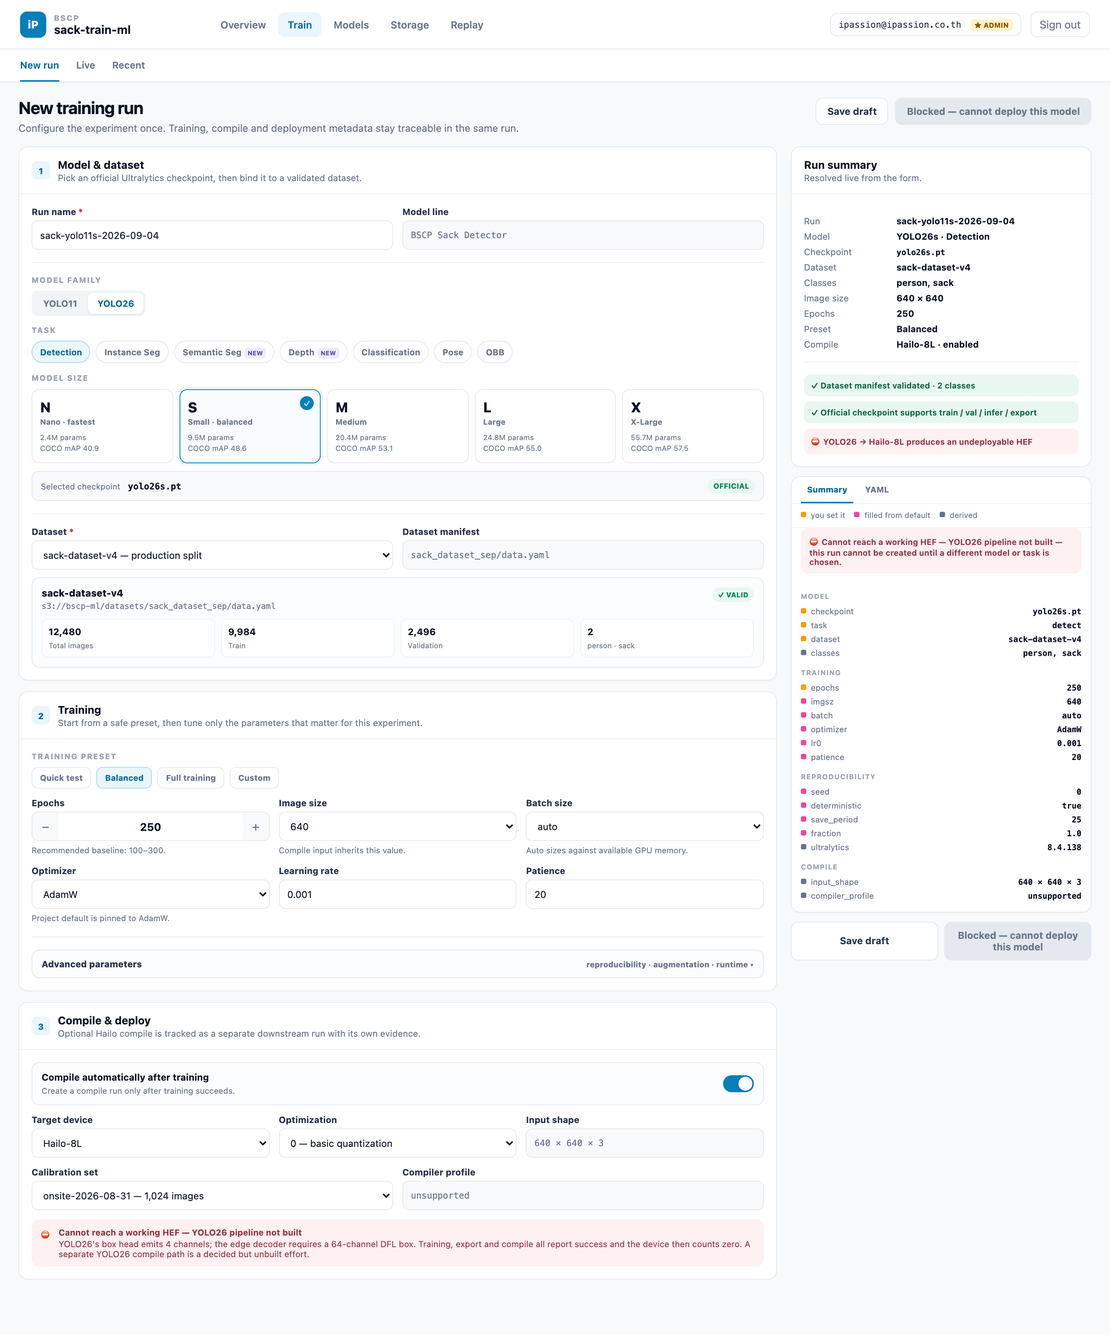
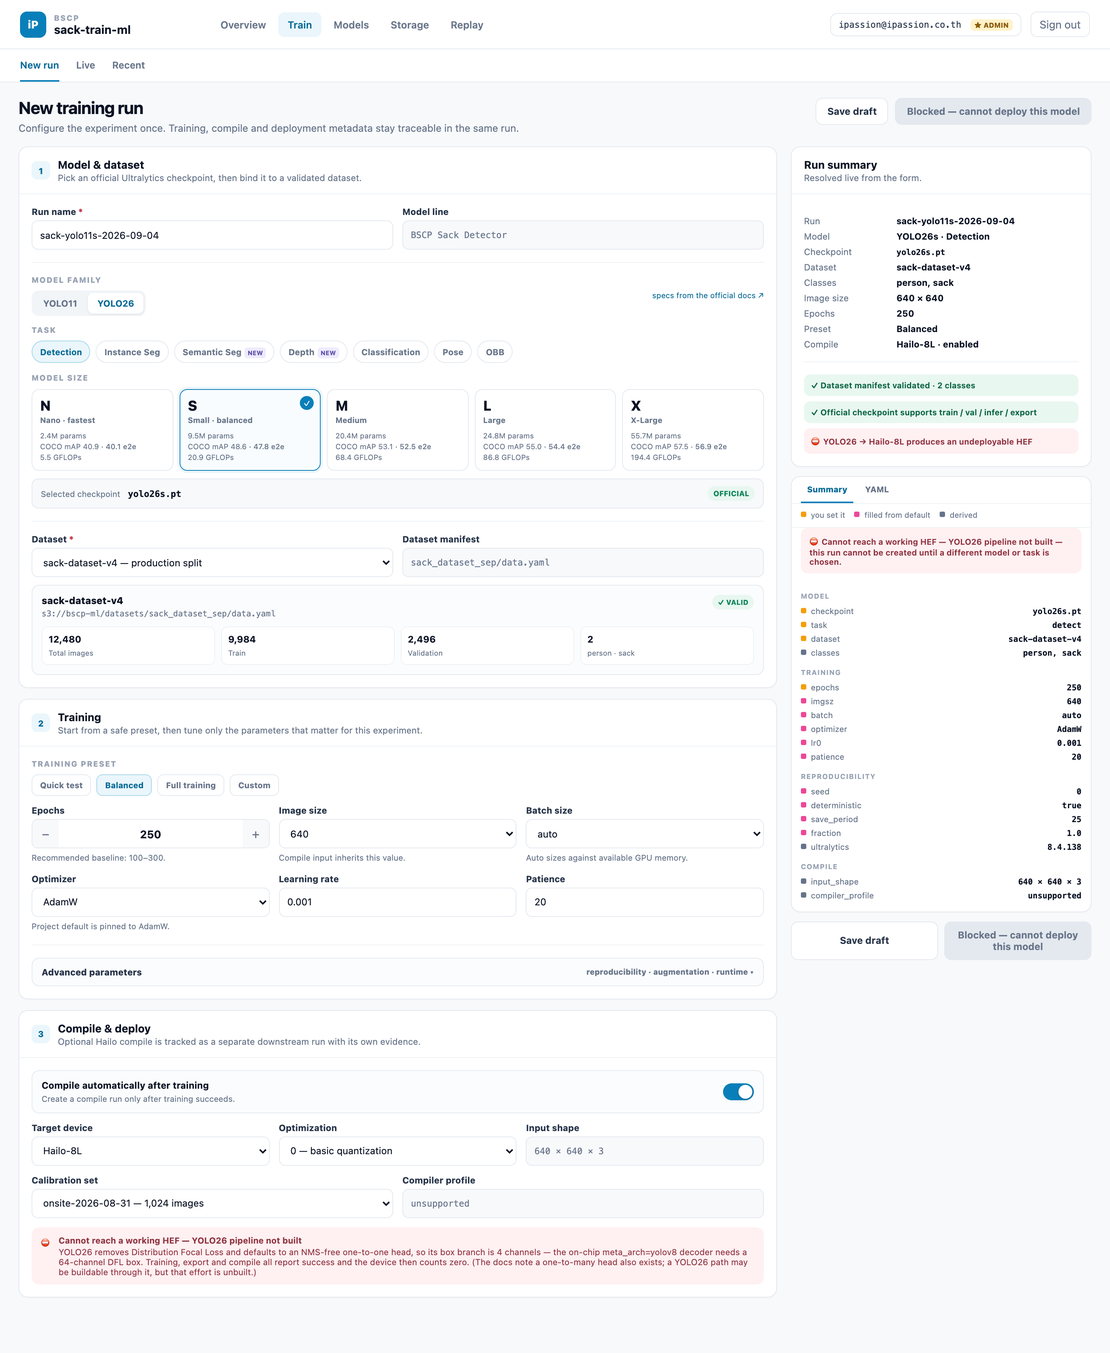
docs: complete the model catalogue from the official docs; accept v3
Verified both family pages directly. The task lists genuinely differ —
YOLO11 publishes five tasks, YOLO26 seven, adding semantic segmentation
and depth — and only detection has a published performance table on
either page, so the cards now say "no published table" rather than
inventing numbers. Detection figures carried verbatim with FLOPs, which
were missing, plus YOLO26's end-to-end NMS-free mAP as its own column
since that is the number its default head actually delivers. Each family
links to its source page so the specs stay traceable.

The YOLO26 refusal is now grounded in documented fact rather than
inference: the page states outright that YOLO26 removes Distribution
Focal Loss and defaults to an NMS-free one-to-one head, which is exactly
why the on-chip yolov8 decoder cannot read it.

Also captured a lead that changes the size of the deferred YOLO26 effort:
the docs describe a one-to-many head alongside the default one. If it
carries the classical DFL box, that path may be far cheaper than writing
a new host-side decoder — unverified against a real export.

Prototype ticket resolved on v3.

diff --git a/.scratch/train-param-contract/prototype/new-run.v3.html b/.scratch/train-param-contract/prototype/new-run.v3.html
@@ -65,7 +65,7 @@ details.advanced{border:1px solid var(--line);border-radius:10px;background:#fbf
 .compat{margin-top:12px;border-radius:10px;padding:10px 12px;font-size:11px;display:flex;gap:9px;align-items:flex-start}.compat.ok{background:var(--success-soft);color:#0b6446}.compat.warn{background:var(--warn-soft);color:#8a5b0a}.compat.bad{background:var(--danger-soft);color:#8f3440}.compat b{display:block;margin-bottom:2px}
 
 /* Aside */
-.summary-list{display:grid;grid-template-columns:110px 1fr;gap:7px 10px;font-size:11.5px}.summary-list dt{color:var(--muted)}.summary-list dd{margin:0;color:var(--ink);font-weight:700;min-width:0;overflow-wrap:anywhere}.summary-list code{font-family:var(--mono);font-size:10.5px}.status-stack{display:flex;flex-direction:column;gap:7px}.status{padding:8px 9px;border-radius:8px;font-size:10.5px;font-weight:650}.status.ok{background:var(--success-soft);color:#0b6446}.status.warn{background:var(--warn-soft);color:#855508}.status.neutral{background:var(--soft);color:var(--muted);border:1px solid var(--line-2)}.status.bad{background:var(--danger-soft);color:#8f3440}.btn[disabled]{background:var(--line);color:var(--muted);cursor:not-allowed;border-color:var(--line)}.btn.secondary[disabled]{background:#fff;color:var(--muted-2,#9aa4b2)}.prov{display:inline-block;width:7px;height:7px;border-radius:2px;margin-right:6px;vertical-align:1px;flex:none}.prov.set{background:#f59e0b}.prov.def{background:#ec4899}.prov.der{background:#64748b}.prov-legend{display:flex;gap:12px;flex-wrap:wrap;padding:8px 12px 10px;font-size:10px;color:var(--muted);border-bottom:1px solid var(--line-2)}.prov-legend span{display:flex;align-items:center}.blockbar{margin:0 12px 12px;border-radius:9px;padding:9px 11px;font-size:10.5px;font-weight:650;background:var(--danger-soft);color:#8f3440;display:none}
+.summary-list{display:grid;grid-template-columns:110px 1fr;gap:7px 10px;font-size:11.5px}.summary-list dt{color:var(--muted)}.summary-list dd{margin:0;color:var(--ink);font-weight:700;min-width:0;overflow-wrap:anywhere}.summary-list code{font-family:var(--mono);font-size:10.5px}.status-stack{display:flex;flex-direction:column;gap:7px}.status{padding:8px 9px;border-radius:8px;font-size:10.5px;font-weight:650}.status.ok{background:var(--success-soft);color:#0b6446}.status.warn{background:var(--warn-soft);color:#855508}.status.neutral{background:var(--soft);color:var(--muted);border:1px solid var(--line-2)}.dim{color:var(--muted);font-weight:500}.docs-link{float:right;font-size:10px;color:var(--primary-700);text-decoration:none}.status.bad{background:var(--danger-soft);color:#8f3440}.btn[disabled]{background:var(--line);color:var(--muted);cursor:not-allowed;border-color:var(--line)}.btn.secondary[disabled]{background:#fff;color:var(--muted-2,#9aa4b2)}.prov{display:inline-block;width:7px;height:7px;border-radius:2px;margin-right:6px;vertical-align:1px;flex:none}.prov.set{background:#f59e0b}.prov.def{background:#ec4899}.prov.der{background:#64748b}.prov-legend{display:flex;gap:12px;flex-wrap:wrap;padding:8px 12px 10px;font-size:10px;color:var(--muted);border-bottom:1px solid var(--line-2)}.prov-legend span{display:flex;align-items:center}.blockbar{margin:0 12px 12px;border-radius:9px;padding:9px 11px;font-size:10.5px;font-weight:650;background:var(--danger-soft);color:#8f3440;display:none}
 .tabbar{display:flex;border-bottom:1px solid var(--line-2);padding:0 12px}.tabbar button{border:0;background:none;padding:10px 8px;margin-right:7px;color:var(--muted);font-size:10.5px;font-weight:800;border-bottom:2px solid transparent}.tabbar button.active{color:var(--primary-700);border-bottom-color:var(--primary)}
 .config-summary{padding:12px}.config-group{margin-bottom:11px}.config-group:last-child{margin-bottom:0}.config-group h4{margin:0 0 5px;color:var(--muted-2);font-size:9px;letter-spacing:.08em;text-transform:uppercase}.config-kv{display:flex;justify-content:space-between;gap:12px;padding:3px 0;font-size:10.5px}.config-kv span:first-child{color:var(--muted)}.config-kv span:last-child{color:var(--ink);font-family:var(--mono);font-weight:700;text-align:right}
 pre{margin:0;padding:12px;background:var(--dark);color:#d8e2ee;font-family:var(--mono);font-size:10px;line-height:1.55;white-space:pre-wrap;overflow:auto;max-height:420px}
@@ -101,7 +101,7 @@ pre{margin:0;padding:12px;background:var(--dark);color:#d8e2ee;font-family:var(-
           </div>
           <div class="divider"></div>
           <div class="section-label">Model family</div>
-          <div class="segment" id="familySeg"><button class="active" data-family="11">YOLO11</button><button data-family="26">YOLO26</button></div>
+          <a class="docs-link" id="docsLink" target="_blank" rel="noopener">specs from the official docs ↗</a><div class="segment" id="familySeg"><button class="active" data-family="11">YOLO11</button><button data-family="26">YOLO26</button></div>
           <div style="height:12px"></div>
           <div class="section-label">Task</div>
           <div class="task-row" id="taskRow"></div>
@@ -212,33 +212,32 @@ pre{margin:0;padding:12px;background:var(--dark);color:#d8e2ee;font-family:var(-
 </main>
 
 <script>
+const DOCS={'11':'https://docs.ultralytics.com/models/yolo11','26':'https://docs.ultralytics.com/models/yolo26'};
 const families = {
   '11': {
     label:'YOLO11',
-    tasks:[
-      ['detect','Detection',''],['segment','Instance Seg',''],['classify','Classification',''],['pose','Pose',''],['obb','OBB','']
-    ],
+    // Tasks per the official page: detect, segment, classify, pose, obb. No semantic seg, no depth.
+    tasks:[['detect','Detection',''],['segment','Instance Seg',''],['classify','Classification',''],['pose','Pose',''],['obb','OBB','']],
     metrics:{
-      detect:{n:['2.6M','39.5'],s:['9.4M','47.0'],m:['20.1M','51.5'],l:['25.3M','53.4'],x:['56.9M','54.7']},
-      segment:{n:['—','—'],s:['—','—'],m:['—','—'],l:['—','—'],x:['—','—']},
-      classify:{n:['—','—'],s:['—','—'],m:['—','—'],l:['—','—'],x:['—','—']},
-      pose:{n:['—','—'],s:['—','—'],m:['—','—'],l:['—','—'],x:['—','—']},
-      obb:{n:['—','—'],s:['—','—'],m:['—','—'],l:['—','—'],x:['—','—']}
+      detect:{n:{p:'2.6M',map:'39.5',f:'6.5'},s:{p:'9.4M',map:'47.0',f:'21.6'},m:{p:'20.1M',map:'51.5',f:'68.1'},l:{p:'25.3M',map:'53.4',f:'87.2'},x:{p:'56.9M',map:'54.7',f:'195.3'}},
+      segment:{n:{p:'—',map:'—',f:'—'},s:{p:'—',map:'—',f:'—'},m:{p:'—',map:'—',f:'—'},l:{p:'—',map:'—',f:'—'},x:{p:'—',map:'—',f:'—'}},
+      classify:{n:{p:'—',map:'—',f:'—'},s:{p:'—',map:'—',f:'—'},m:{p:'—',map:'—',f:'—'},l:{p:'—',map:'—',f:'—'},x:{p:'—',map:'—',f:'—'}},
+      pose:{n:{p:'—',map:'—',f:'—'},s:{p:'—',map:'—',f:'—'},m:{p:'—',map:'—',f:'—'},l:{p:'—',map:'—',f:'—'},x:{p:'—',map:'—',f:'—'}},
+      obb:{n:{p:'—',map:'—',f:'—'},s:{p:'—',map:'—',f:'—'},m:{p:'—',map:'—',f:'—'},l:{p:'—',map:'—',f:'—'},x:{p:'—',map:'—',f:'—'}}
     }
   },
   '26': {
     label:'YOLO26',
-    tasks:[
-      ['detect','Detection',''],['segment','Instance Seg',''],['semantic','Semantic Seg','new'],['depth','Depth','new'],['classify','Classification',''],['pose','Pose',''],['obb','OBB','']
-    ],
+    // Tasks per the official page: seven, adding semantic segmentation and depth estimation.
+    tasks:[['detect','Detection',''],['segment','Instance Seg',''],['semantic','Semantic Seg','new'],['depth','Depth','new'],['classify','Classification',''],['pose','Pose',''],['obb','OBB','']],
     metrics:{
-      detect:{n:['2.4M','40.9'],s:['9.5M','48.6'],m:['20.4M','53.1'],l:['24.8M','55.0'],x:['55.7M','57.5']},
-      segment:{n:['—','—'],s:['—','—'],m:['—','—'],l:['—','—'],x:['—','—']},
-      semantic:{n:['—','—'],s:['—','—'],m:['—','—'],l:['—','—'],x:['—','—']},
-      depth:{n:['—','—'],s:['—','—'],m:['—','—'],l:['—','—'],x:['—','—']},
-      classify:{n:['—','—'],s:['—','—'],m:['—','—'],l:['—','—'],x:['—','—']},
-      pose:{n:['—','—'],s:['—','—'],m:['—','—'],l:['—','—'],x:['—','—']},
-      obb:{n:['—','—'],s:['—','—'],m:['—','—'],l:['—','—'],x:['—','—']}
+      detect:{n:{p:'2.4M',map:'40.9',f:'5.5',e2e:'40.1'},s:{p:'9.5M',map:'48.6',f:'20.9',e2e:'47.8'},m:{p:'20.4M',map:'53.1',f:'68.4',e2e:'52.5'},l:{p:'24.8M',map:'55.0',f:'86.8',e2e:'54.4'},x:{p:'55.7M',map:'57.5',f:'194.4',e2e:'56.9'}},
+      segment:{n:{p:'—',map:'—',f:'—'},s:{p:'—',map:'—',f:'—'},m:{p:'—',map:'—',f:'—'},l:{p:'—',map:'—',f:'—'},x:{p:'—',map:'—',f:'—'}},
+      semantic:{n:{p:'—',map:'—',f:'—'},s:{p:'—',map:'—',f:'—'},m:{p:'—',map:'—',f:'—'},l:{p:'—',map:'—',f:'—'},x:{p:'—',map:'—',f:'—'}},
+      depth:{n:{p:'—',map:'—',f:'—'},s:{p:'—',map:'—',f:'—'},m:{p:'—',map:'—',f:'—'},l:{p:'—',map:'—',f:'—'},x:{p:'—',map:'—',f:'—'}},
+      classify:{n:{p:'—',map:'—',f:'—'},s:{p:'—',map:'—',f:'—'},m:{p:'—',map:'—',f:'—'},l:{p:'—',map:'—',f:'—'},x:{p:'—',map:'—',f:'—'}},
+      pose:{n:{p:'—',map:'—',f:'—'},s:{p:'—',map:'—',f:'—'},m:{p:'—',map:'—',f:'—'},l:{p:'—',map:'—',f:'—'},x:{p:'—',map:'—',f:'—'}},
+      obb:{n:{p:'—',map:'—',f:'—'},s:{p:'—',map:'—',f:'—'},m:{p:'—',map:'—',f:'—'},l:{p:'—',map:'—',f:'—'},x:{p:'—',map:'—',f:'—'}}
     }
   }
 };
@@ -256,13 +255,22 @@ function renderTasks(){
 }
 function renderModels(){
   const grid=document.getElementById('modelGrid'); grid.innerHTML='';
-  ['n','s','m','l','x'].forEach(size=>{ const m=families[state.family].metrics[state.task]?.[size] || ['—','—']; const b=document.createElement('button'); b.className='model-card'+(state.size===size?' active':''); b.innerHTML=`<span class="check">✓</span><div class="size">${size}</div><div class="name">${sizeNames[size]}</div><div class="meta">${m[0]} params<br>${m[1]==='—'?'official scale':'COCO mAP '+m[1]}</div>`; b.onclick=()=>{state.size=size; renderAll();}; grid.appendChild(b); });
+  ['n','s','m','l','x'].forEach(size=>{
+    const m=families[state.family].metrics[state.task]?.[size] || {p:'—',map:'—',f:'—'};
+    const b=document.createElement('button');
+    b.className='model-card'+(state.size===size?' active':'');
+    const perf = m.map==='—'
+      ? '<span class="dim">no published table</span>'
+      : `COCO mAP ${m.map}${m.e2e?` <span class="dim">· ${m.e2e} e2e</span>`:''}<br>${m.f} GFLOPs`;
+    b.innerHTML=`<span class="check">✓</span><div class="size">${size}</div><div class="name">${sizeNames[size]}</div><div class="meta">${m.p} params<br>${perf}</div>`;
+    b.onclick=()=>{state.size=size; renderAll();};
+    grid.appendChild(b); });
 }
 function projectCompatibility(){
   // level: ok | warn | bad.  "bad" means KNOWN BROKEN TODAY — refuse, do not caution.
   if(state.family==='26') return {level:'bad',blocked:true,
     title:'Cannot reach a working HEF — YOLO26 pipeline not built',
-    text:"YOLO26's box head emits 4 channels; the edge decoder requires a 64-channel DFL box. Training, export and compile all report success and the device then counts zero. A separate YOLO26 compile path is a decided but unbuilt effort.",
+    text:"YOLO26 removes Distribution Focal Loss and defaults to an NMS-free one-to-one head, so its box branch is 4 channels — the on-chip meta_arch=yolov8 decoder needs a 64-channel DFL box. Training, export and compile all report success and the device then counts zero. (The docs note a one-to-many head also exists; a YOLO26 path may be buildable through it, but that effort is unbuilt.)",
     profile:'unsupported', status:'⛔ YOLO26 → Hailo-8L produces an undeployable HEF'};
   if(state.task==='pose'||state.task==='obb') return {level:'bad',blocked:true,
     title:'Compiles with the keypoint branch silently removed',
@@ -388,6 +396,7 @@ function updateSummary(){
 function renderAll(){
   document.querySelectorAll('#familySeg button').forEach(b=>b.classList.toggle('active',b.dataset.family===state.family));
   const validTasks=families[state.family].tasks.map(x=>x[0]); if(!validTasks.includes(state.task)) state.task='detect';
+  document.getElementById('docsLink').href=DOCS[state.family];
   renderTasks(); renderModels(); updateSummary(); updateCompat(); renderConfig();
 }
 function applyPreset(p){

diff --git a/.scratch/train-param-contract/map.md b/.scratch/train-param-contract/map.md
@@ -42,6 +42,7 @@ Both share one root: **the parameter surface is not a contract**. Defaults live 
 
 - [What can ultralytics training actually tune, and can we validate it programmatically?](./issues/01-ultralytics-train-args.md) — validating custom params is cheap (`DEFAULT_CFG_DICT` + `check_dict_alignment` + `check_cfg`, all verified in the venv), and unknown keys already fail fast; the real gap is that 29 of 115 keys — `optimizer` among them — get **zero** value checking, so our own enum table is unavoidable. The Muon bug existed in exactly one upstream release: nothing pins the toolchain.
 - [What can the Hailo compile tune, and why did INT8 collapse?](./issues/02-hailo-compile-params.md) — `optimization_level=2` is quantization-aware **fine-tuning** (4 epochs, 1024 images, wants a GPU), and a diverging QFT is the leading explanation, matching a same-shaped incident this team hit on 2026-07-21. Two side-findings: our generated ALLS omits the cls `sigmoid` that Hailo's own recipe carries, and the reported "below 0.2" scores cannot have come from the HEF output, whose on-chip floor is 0.2.
+- [Prototype the New-run form under the new contract](./issues/09-prototype-new-run-form.md) — **v3 accepted**: an externally-reviewed form (family/task/size decomposition, dataset card with real counts, presets, run name, Summary/YAML tabs) with two contract pieces ported back — a level that *blocks* known-broken paths instead of cautioning, and provenance on every value, so the config reads `optimizer: AdamW  # default — nobody typed this`. Catalogue verified against the official docs.
 - [Which parameters are first-class fields, and what does the escape hatch allow?](./issues/06-fields-vs-escape-hatch.md) — every parameter lands in one of **four** categories: field, advanced escape hatch, **derived (shown, never editable)**, or refused at submit. `imgsz` stays editable and the compile *inherits* it. Both forms' fields are fixed, each with a default and help text; `deterministic` and `save_period` are added; the catalogue lists every trainable checkpoint with its capability marked, which pulls the head-index fix into scope so those labels are true.
 - [Separating compile from train: what happens to `compile_run.ipynb`?](./issues/08-compile-notebook-and-recompile-flow.md) — **a compile is a run of its own kind**, carrying `source_run_id`; both kinds share **one launcher notebook** that dispatches on kind, which dissolves the stale `compile_run.ipynb` copy; configuration comes from the registry, with an override path that is allowed but cannot publish artifacts; and **calibration sets become named R2 artifacts referenced by key**, fixing the unreproducible disk path in `dc3dbb2`.
 - [Every trainable model, and which ones can reach a Hailo-8L HEF](./issues/03-model-catalogue.md) — 46 checkpoints train, **5 compile correctly**; the hardcoded `/model.23/` head prefix (the index is 22 on YOLOv8, 42 on YOLOv9e, 21 on YOLO12) is the single cause, and the fix is small. Worse: the `yolo26*` options already in the form produce HEFs that report success and count zero on the device, and pose compiles with its keypoint branch amputated.
@@ -59,6 +60,6 @@ Both share one root: **the parameter surface is not a contract**. Defaults live 
 - **The Lab tab** (`webui/lab_core.py`, `apps/api/lab_server.py`) — a separate subsystem for replaying video through the counting pipeline, not part of the train path.
 - **The Overview / Models / Storage tabs** — not part of launching a run.
 - **Designing the INT8-vs-FP32 quality gate** — this spec requires only that a measurement exists and travels with the HEF. How it is measured and what threshold passes is its own effort.
-- **Building the YOLO26 compile pipeline.** The owner has decided YOLO26 keeps its place and gets its own path rather than being dropped ([12](./issues/12-interim-remove-undeployable-options.md)). Its 4-channel box head cannot use the on-chip `meta_arch=yolov8` NMS, so it needs raw output plus a matching host-side decoder — and that decoder lives in `sack-detector-edge`, which this repo explicitly does not own (`AGENTS.md`). It is therefore its own effort, requiring a cross-repo contract, not a ticket here. What *does* stay on this map is how the parameter contract expresses more than one compile path ([06](./issues/06-fields-vs-escape-hatch.md)).
+- **Building the YOLO26 compile pipeline.** The owner has decided YOLO26 keeps its place and gets its own path rather than being dropped ([12](./issues/12-interim-remove-undeployable-options.md)). Its 4-channel box head cannot use the on-chip `meta_arch=yolov8` NMS — the official docs confirm YOLO26 *removes* Distribution Focal Loss and defaults to an NMS-free one-to-one head — so it needs raw output plus a matching host-side decoder, and that decoder lives in `sack-detector-edge`, which this repo explicitly does not own (`AGENTS.md`). It is therefore its own effort, requiring a cross-repo contract, not a ticket here. **One lead worth checking first:** the same docs state a *one-to-many* head (traditional, with NMS) also exists, which may carry the classical DFL box and make the path far cheaper than a new decoder — unverified against a real export. What *does* stay on this map is how the parameter contract expresses more than one compile path ([06](./issues/06-fields-vs-escape-hatch.md)).
 - **Making "experiment" a first-class object.** Today there is no way to say "these three runs are one ablation differing only in `opt_level`" — the registry holds `runs` and nothing groups them (`model_lines, runs, run_metrics, versions, channels, channel_deployments, channel_history`), so the parent `CLAUDE.md` rule of one-changed-lever-per-run cannot actually be *practised* in the system; the pairing lives in someone's head. This is the widest gap between "a webapp that trains" and a Lab, and it belongs to the horizon — the current focus is train + compile.
 - **Implementing the spec** — this map ends at decisions.

diff --git a/.scratch/train-param-contract/issues/03-model-catalogue.md b/.scratch/train-param-contract/issues/03-model-catalogue.md
@@ -35,5 +35,18 @@ Findings land in `../research/model-catalogue.md` (519 lines, incl. the full per
 
 **The dropdown must be generated against the installed ultralytics, not the docs.** `yolov9c-seg.pt`, `yolov8x-pose-p6.pt` and `yolo26*-depth.pt` appear in documentation but are missing from 8.4.56's `GITHUB_ASSETS_NAMES` — they cannot be downloaded at all. This ties the catalogue to [10](./10-toolchain-pinning.md).
 
+### Catalogue verified against the official pages (2026-09-04)
+
+Checked directly against [docs.ultralytics.com/models/yolo11](https://docs.ultralytics.com/models/yolo11) and [/yolo26](https://docs.ultralytics.com/models/yolo26), and folded into the prototype:
+
+- **Task lists differ between the families, and the earlier numbers were right.** YOLO11 publishes **five** tasks (detect, instance seg, classify, pose, OBB). YOLO26 publishes **seven**, adding **semantic segmentation** and **depth estimation**. Checkpoint suffixes: `-seg`, `-sem`, `-depth`, `-cls`, `-pose`, `-obb`.
+- **Only detection has a published performance table** on either page; every other task shows no numbers, so the catalogue says "no published table" rather than inventing one.
+- Detection figures now carried in full, verbatim, including **FLOPs** — previously missing — and YOLO26's second accuracy column: its **end-to-end (NMS-free) mAP**, which is the number that applies to its default head. YOLO11: 39.5 / 47.0 / 51.5 / 53.4 / 54.7 at 6.5–195.3 GFLOPs. YOLO26: 40.9 / 48.6 / 53.1 / 55.0 / 57.5 with e2e 40.1 / 47.8 / 52.5 / 54.4 / 56.9, at 5.5–194.4 GFLOPs.
+- P2/P6 exist only as YAML configs — **no `yolo26*-p2.pt` or `-p6.pt` weights are released** — so they must never appear as selectable checkpoints.
+
+**The YOLO26 blocking reason is now documented fact rather than inference.** The page states plainly that YOLO26 *"removes Distribution Focal Loss"* and that its default one-to-one head *"produces predictions without non-maximum suppression"*. That is exactly why the on-chip `meta_arch=yolov8` decoder — which expects a 64-channel DFL box — cannot read it.
+
+**And a lead that changes the size of the YOLO26 effort:** the same page states the models *"support both a one-to-one head (NMS-free, default) and a one-to-many head (traditional YOLO with NMS)"*. If the one-to-many head carries the classical DFL box, a YOLO26 → Hailo path may be reachable through it rather than requiring a new host-side decoder. Unverified against a real exported graph — worth checking before that effort is scoped.
+
 **Researcher's recommendation, which conflicts with the stated preference and must be settled in [06](./06-fields-vs-escape-hatch.md):** ship 5 selectable rows (`yolo11*`), 10 disabled-with-reason (`yolov8*`, enabling the day the index fix lands), plus `yolo11s-seg`, and offer nothing else. The owner's stated preference is to list *every* trainable model with compile-capability marked. Both are defensible; the tension is exactly what "compile-capable versus train-only" has to resolve.
 

diff --git a/.scratch/train-param-contract/issues/09-prototype-new-run-form.md b/.scratch/train-param-contract/issues/09-prototype-new-run-form.md
@@ -1,7 +1,7 @@
 # 09 — Prototype the New-run form under the new contract
 
 Type: prototype
-Status: claimed
+Status: resolved
 Blocked by: 06
 
 ## Artifact
@@ -35,7 +35,13 @@ The owner took the three variants to a second reviewer, which returned a single 
 2. **Provenance on every value**, in both tabs — `you set it` / `default — nobody typed this` / `derived` — with a legend. The YAML now renders `optimizer: AdamW  # default — nobody typed this`, which is the Muon incident made visible before launch.
 3. The dataset status line, previously hardcoded to pass, now follows the selected dataset (the smoke subset reports a warning). Note the dataset *card* was already dynamic in v2 — an earlier claim that it was hardcoded was too broad and is corrected here.
 
-Awaiting the owner's verdict on v3 before this ticket closes.
+## Answer
+
+**v3 is accepted.** The design is settled: the externally-reviewed form, plus a blocking level that refuses known-broken paths and provenance on every value.
+
+Completed after acceptance — the catalogue was verified against the official Ultralytics pages and made complete: FLOPs added, YOLO26's end-to-end (NMS-free) mAP added as its own column, task lists confirmed to differ between the families (YOLO11 five, YOLO26 seven), "no published table" shown where the docs publish none, and a per-family link to the source page so the numbers are traceable. See [03](./03-model-catalogue.md) for the verified figures and for a new lead on the YOLO26 one-to-many head.
+
+The three original variants and the external v2 remain the primary source of how this was arrived at; only v3 carries forward.
 
 <!-- 05 was listed here and has been removed: a prototype settles form and behaviour;
      where the schema definition lives is a build concern that does not change what
